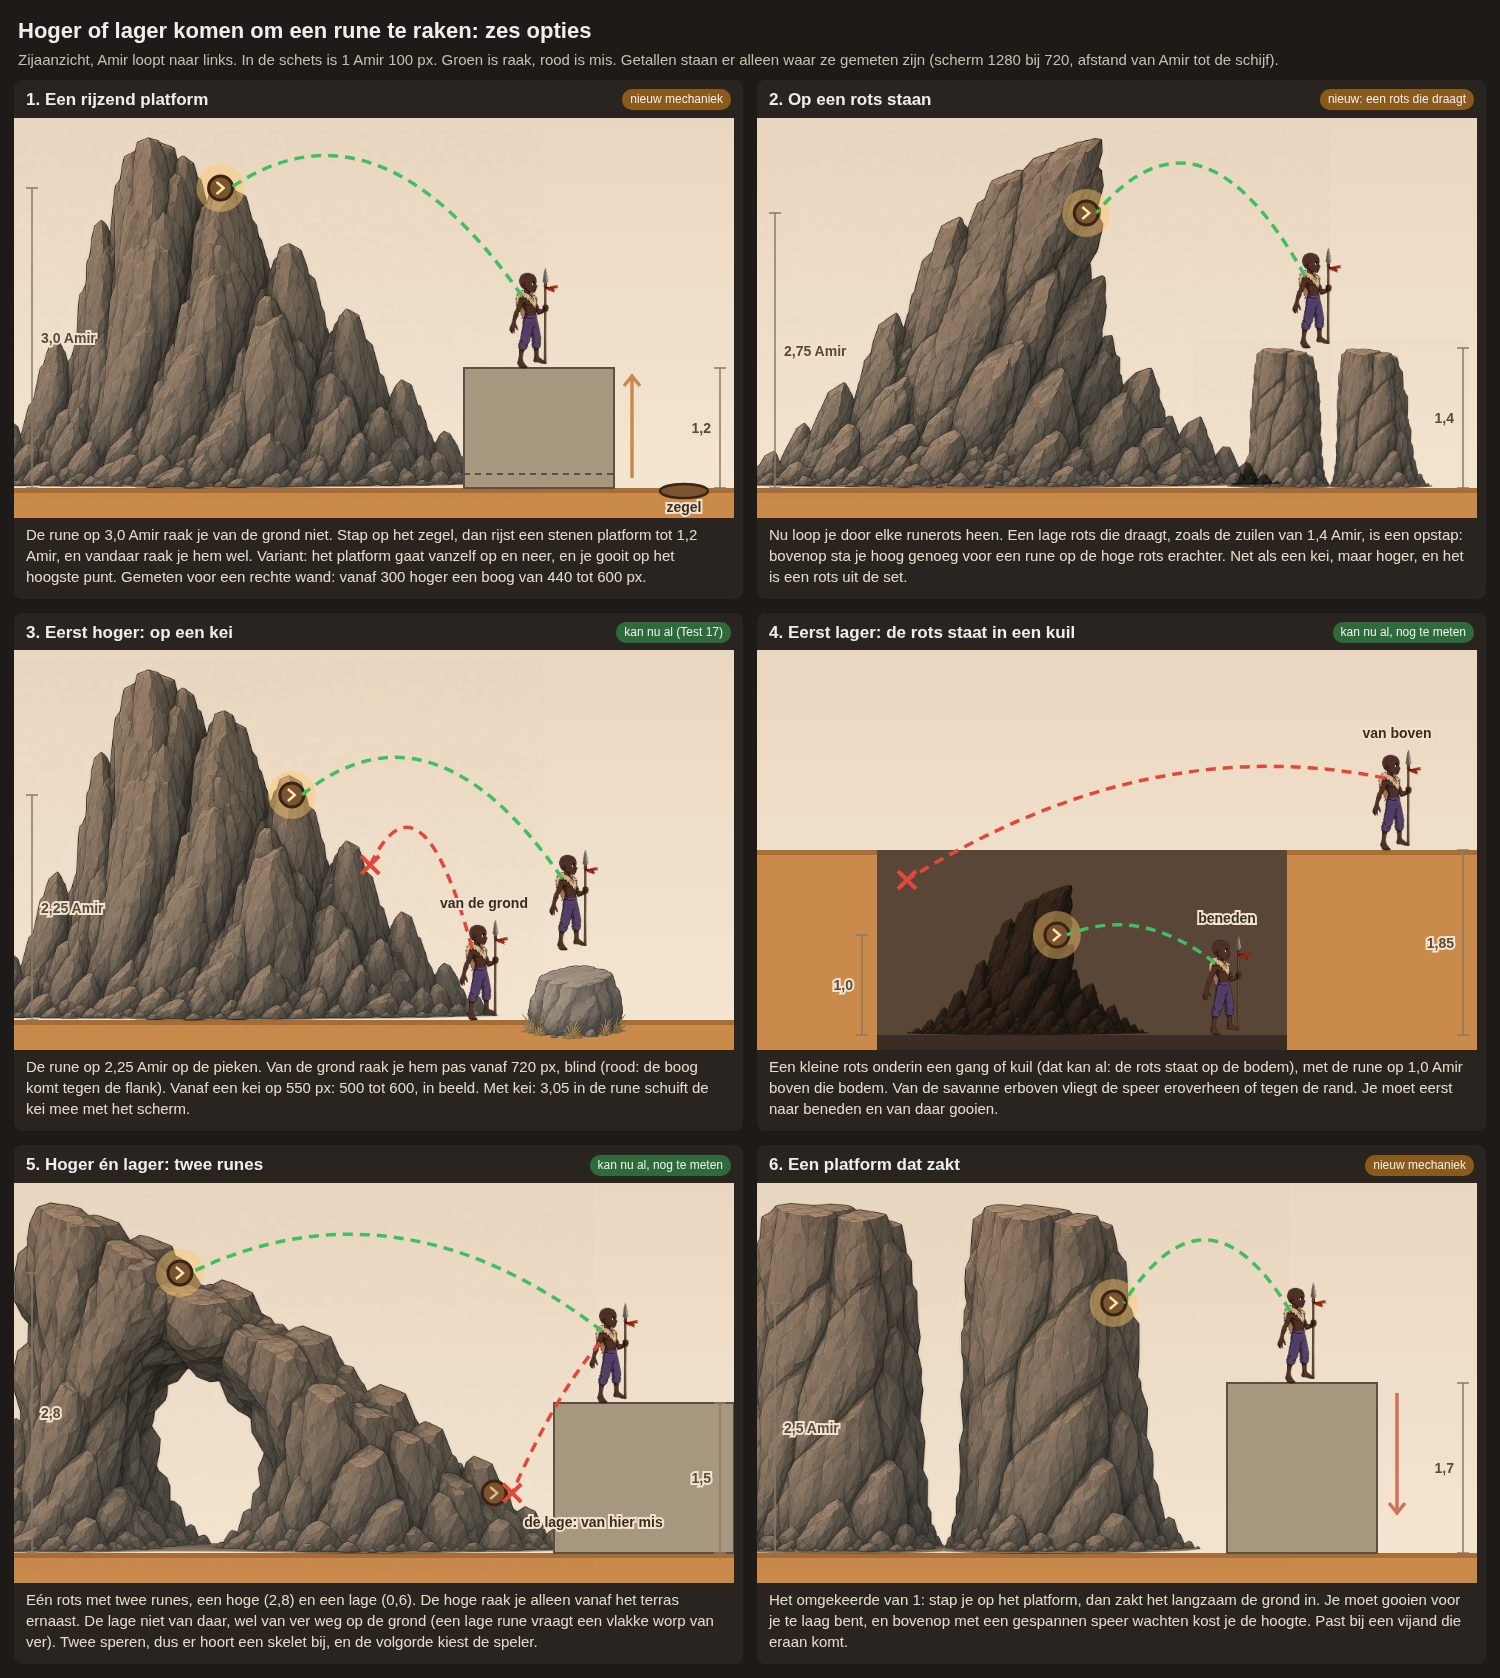
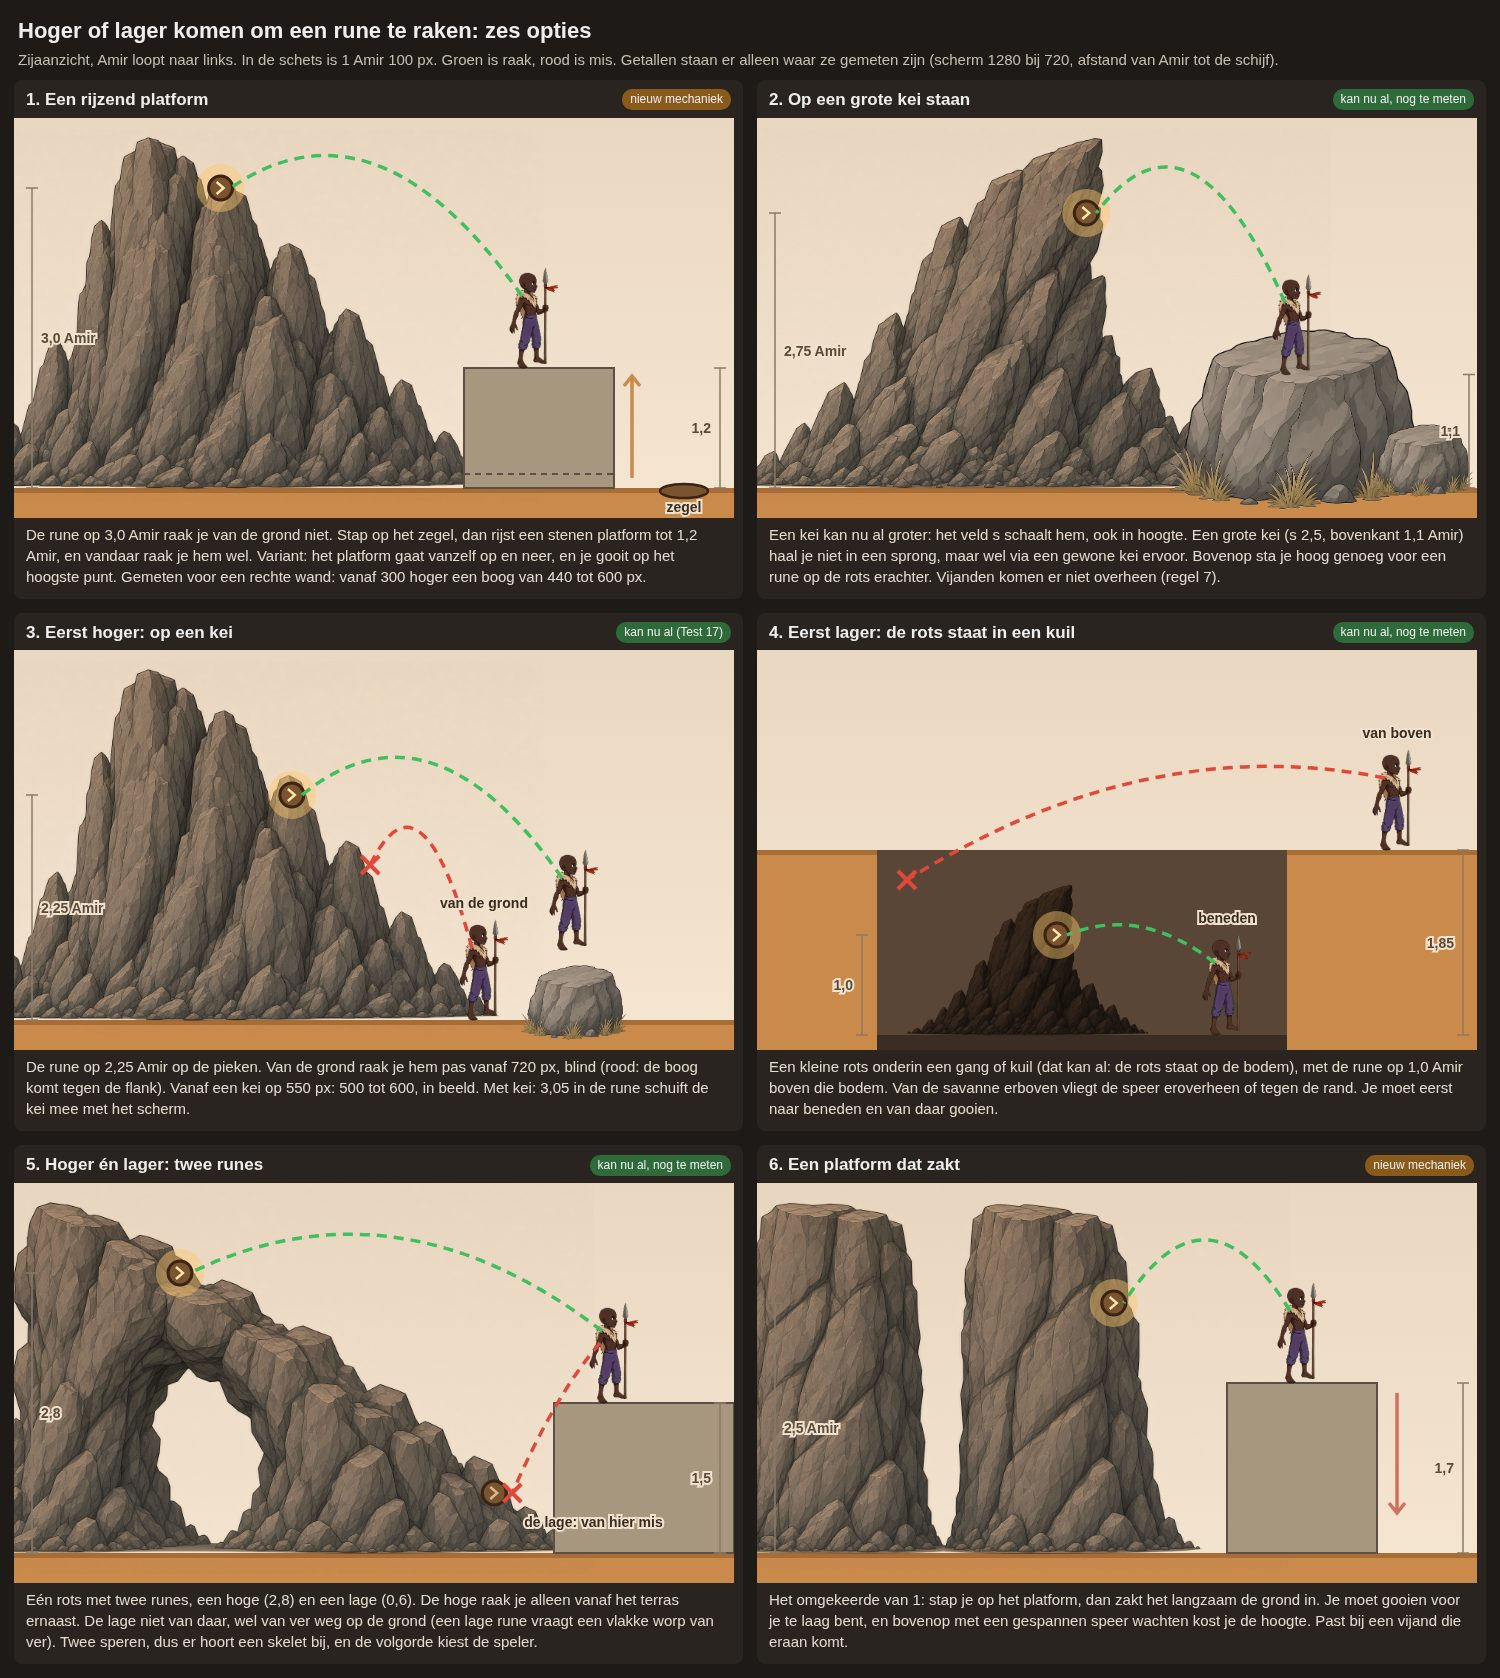
Schets: op een grote kei staan in plaats van op de zuilen
Optie 2 gebruikt nu een kei die we al hebben: een grote kei (s 2,5) met een gewone ervoor als
trapje, in plaats van de twee zuilen als opstap. De rotsen met een rune blijven decor. In
notities/combinaties.md staat dat alle zes zijn goedgekeurd, en wat nu al kan.

Claude-Session: https://claude.ai/code/session_01VS7G5nBV8k65Q3XU2sursJ

diff --git a/notities/combinaties.md b/notities/combinaties.md
@@ -161,10 +161,11 @@ Wat Claude uit een testrun haalt en voorstelt. Pas na een ja gaat het een level 
   terras of gang) en de strook als deel van wat je ziet. Voorstel voor de vorm: een lijst in de HTML naast
   `RUNE_ROTSEN`, die je in een level of in de bouwer op naam kiest. De precieze vorm bespreken we bij de PR.
 - **Hoger of lager komen (schets, nog niets gebouwd):** zes opties in `proeven/opties_hoger_lager.jpg`.
-  Kan nu al: eerst op een kei (Test 17), een rots in een kuil of gang waar je eerst naar beneden moet, en
-  een rots met een hoge en een lage rune. Vraagt iets nieuws: een rijzend platform (via een zegel, of
-  vanzelf op en neer), een lage rots uit de set die draagt zodat je erop staat, en een platform dat
-  zakt als je erop staat.
+  Alle zes goedgekeurd. Kan nu al: op een grote kei staan (`s: 2.5`, bovenkant 1,1 Amir, met een gewone
+  kei ervoor als trapje), eerst op een kei (Test 17), een rots in een kuil of gang waar je eerst naar
+  beneden moet, en een rots met een hoge en een lage rune. Vraagt iets nieuws: een rijzend platform (via
+  een zegel, of vanzelf op en neer) en een platform dat zakt als je erop staat. Niet doen: de rotsen uit
+  `RUNE_ROTSEN` (zoals de twee zuilen) laten dragen. Een opstap is een kei.
 
 - (nog leeg)
 
